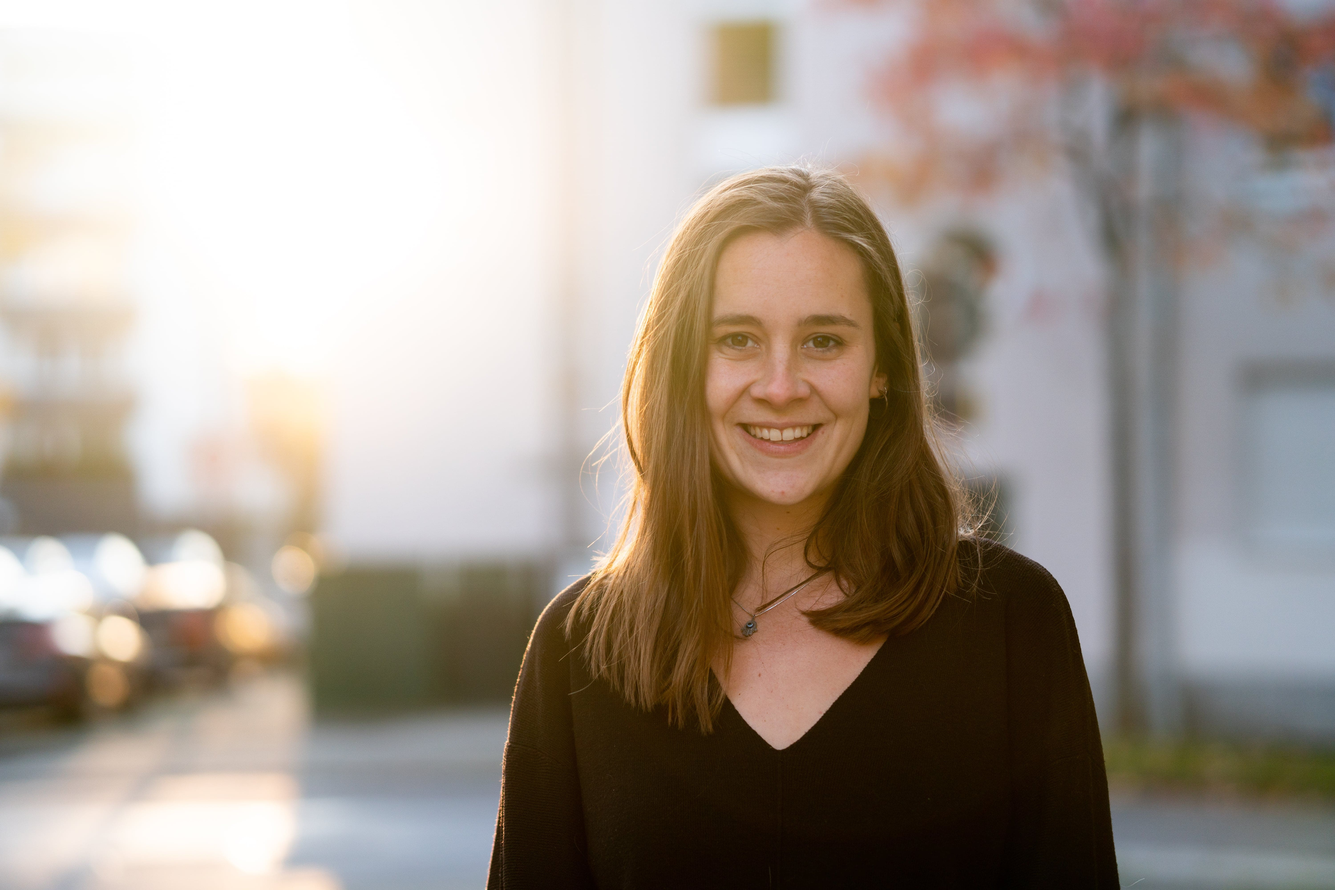
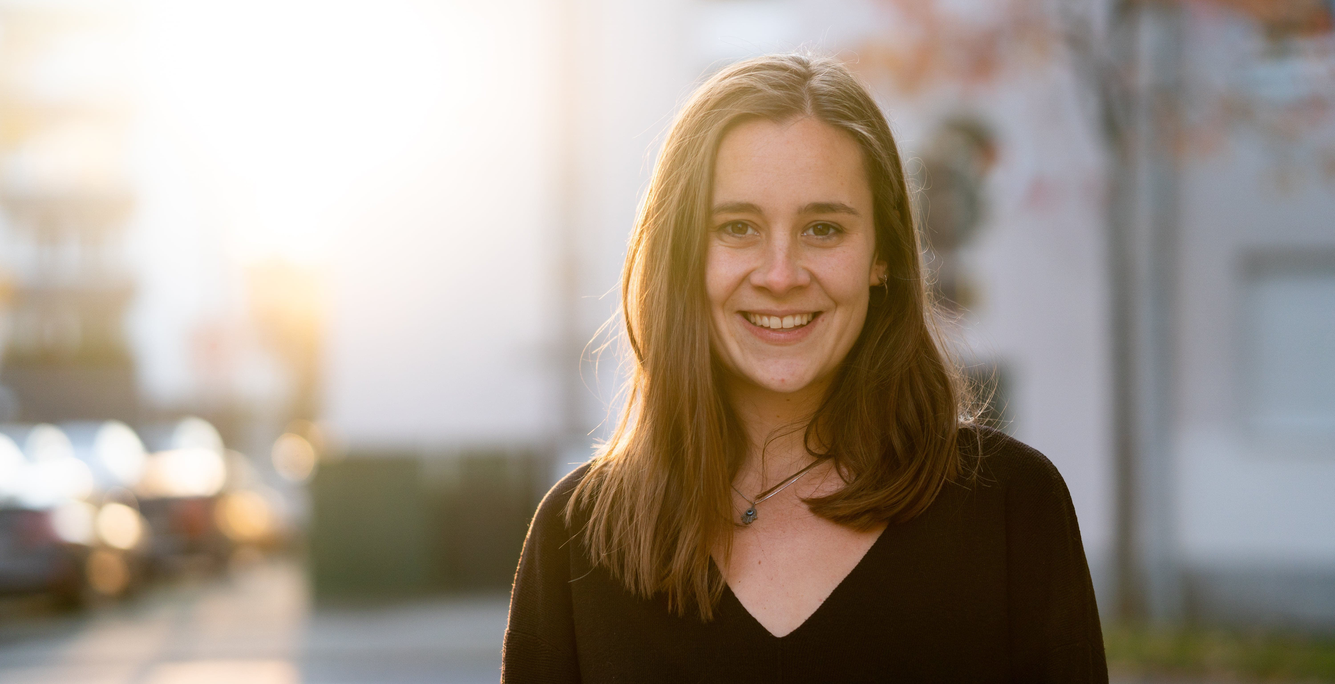
placed all pictures

diff --git a/index.html b/index.html
@@ -9,11 +9,11 @@
 <!-- Navbar (sit on top) -->
 <div class="w3-top">
   <div class="w3-bar w3-white w3-wide w3-padding w3-card">
-    <a href="#home" class="w3-bar-item w3-button"><b>MDEF</b> website</a>
+    <a href="#home" class="w3-bar-item w3-button"><b>GERDA</b> meleschkin</a>
     <!-- Float links to the right. Hide them on small screens -->
     <div class="w3-right w3-hide-small">
-      <a href="#work" class="w3-bar-item w3-button">work</a>
-      <a href="#about" class="w3-bar-item w3-button">about</a>
+      <a href="#work" class="w3-bar-item w3-button">about</a>
+      <a href="#about" class="w3-bar-item w3-button">progress</a>
       <a href="#contact" class="w3-bar-item w3-button">contact</a>
     </div>
   </div>
@@ -21,9 +21,9 @@
 
 <!-- Header -->
 <header class="w3-display-container w3-content w3-wide" style="max-width:1500px;" id="home">
-  <img class="w3-image" src="images/gerda-profilbild.jpg" alt="Architecture" width="1500" height="800">
+  <img class="w3-image" src="images/gerda-profilbild.jpg" alt="Architecture" width="1500" height="900">
   <div class="w3-display-middle w3-margin-top w3-center">
-    <h1 class="w3-xxlarge w3-text-white"><span class="w3-padding w3-black w3-opacity-min"><b>GERDA</b></span> <span class="w3-hide-small w3-text-light-grey">meleschkin</span></h1>
+    <h1 class="w3-xxlarge w3-text-white"><span class="w3-hide-small w3-text-light-grey">everbody is part of this planet</span></h1>
   </div>
 </header>
 
@@ -32,89 +32,103 @@
 
   <!-- Project Section -->
   <div class="w3-container w3-padding-32" id="work">
-    <h3 class="w3-border-bottom w3-border-light-grey w3-padding-16">WORK</h3>
+    <p>I am Gerda Meleschkin, a motivated and enthusiastic industrial product designer and I am looking forward to new challenges and projects.
+    </p>
+    <h3 class="w3-border-bottom w3-border-light-grey w3-padding-16">ABOUT</h3>
   </div>
 
   <div class="w3-row-padding">
     <div class="w3-col l3 m6 w3-margin-bottom">
       <div class="w3-display-container">
         <div class="w3-display-topleft w3-black w3-padding">skills/knowledge/attitude</div>
-        <img src="/images/whats-my-fight.jpg" alt="House" style="width:100%">
-      </div>
-    </div>
-    <div class="w3-col l3 m6 w3-margin-bottom">
-      <div class="w3-display-container">
-        <div class="w3-display-topleft w3-black w3-padding">whats my fight</div>
-        <img src="/images/whats-my-fight.jpg" alt="House" style="width:100%">
-      </div>
-    </div>
-    <div class="w3-col l3 m6 w3-margin-bottom">
-      <div class="w3-display-container">
-        <div class="w3-display-topleft w3-black w3-padding">design space</div>
-        <img src="/w3images/house3.jpg" alt="House" style="width:100%">
-      </div>
-    </div>
-    <div class="w3-col l3 m6 w3-margin-bottom">
-      <div class="w3-display-container">
-        <div class="w3-display-topleft w3-black w3-padding">precourse</div>
-        <img src="/w3images/house4.jpg" alt="House" style="width:100%">
-      </div>
-    </div>
-  </div>
-  <div class="w3-row-padding">
-    <div class="w3-col l3 m6 w3-margin-bottom">
-      <div class="w3-display-container">
-        <div class="w3-display-topleft w3-black w3-padding">reflections</div>
-        <img src="/w3images/house2.jpg" alt="House" style="width:99%">
-      </div>
-    </div>
-    <div class="w3-col l3 m6 w3-margin-bottom">
-      <div class="w3-display-container">
-        <div class="w3-display-topleft w3-black w3-padding">open project</div>
-        <img src="/w3images/house5.jpg" alt="House" style="width:99%">
-      </div>
-    </div>
-    <div class="w3-col l3 m6 w3-margin-bottom">
-      <div class="w3-display-container">
-        <div class="w3-display-topleft w3-black w3-padding">open project</div>
-        <img src="/w3images/house4.jpg" alt="House" style="width:99%">
-      </div>
-    </div>
-    <div class="w3-col l3 m6 w3-margin-bottom">
-      <div class="w3-display-container">
-        <div class="w3-display-topleft w3-black w3-padding">open project</div>
-        <img src="/w3images/house3.jpg" alt="House" style="width:99%">
+        <img src="images/attitude-skills-knowledge-weekly.png" alt="House" style="width:200%">
       </div>
     </div>
   </div>
 
   <!-- About Section -->
   <div class="w3-container w3-padding-32" id="about">
-    <h3 class="w3-border-bottom w3-border-light-grey w3-padding-16">ABOUT</h3>
-    <p>I am Gerda Meleschkin, a motivated and enthusiastic industrial product designer and I am looking forward to new challenges and projects.
-    </p>
+    <h3 class="w3-border-bottom w3-border-light-grey w3-padding-16">PROGRESS</h3>
   </div>
 
   <div class="w3-row-padding w3-grayscale">
     <div class="w3-col l3 m6 w3-margin-bottom">
-      <img src="/w3images/team2.jpg" alt="John" style="width:100%">
-      <h3>cv</h3>
-      <p class="w3-opacity">Inputs/Outputs & Fabrication</p>
+      <img src="images/jelly-fish-lamp.png" alt="John" style="width:100%">
+      <h3>Jelly Fish Lamp</h3>
+      <p class="w3-opacity">Precourse</p>
       <p>Phasellus eget enim eu lectus faucibus vestibulum. Suspendisse sodales pellentesque elementum.</p>
       <p><button class="w3-button w3-light-grey w3-block">download</button></p>
     </div>
     <div class="w3-col l3 m6 w3-margin-bottom">
-      <img src="/w3images/team1.jpg" alt="Jane" style="width:100%">
-      <h3>inspirations</h3>
-      <p class="w3-opacity">Reflektion</p>
+      <img src="images/whats-my-fight.jpg" alt="John" style="width:100%">
+      <h3>whats my fight</h3>
+      <p class="w3-opacity">Bootcamp</p>
+      <p>Connection and community, that´s my fight. This pictures shows on the one hand the mother earth with plants and animals and on the other hand the human life. I think it’s really important that we don’t lose the connection between the nature and ourselves. We are all together on the same planet and now see what problems we get when we act separately. Global warming, air pollution and world hunger for example are problems which comes from not connecting which each other. The world is full of products and trash caused from humans. I think it’s important now to think more about what we have, what we really need and what we can recycle. Acting more together instead of separately.</p>
+      <p><button class="w3-button w3-light-grey w3-block">download</button></p>
+    </div>
+    <div class="w3-col l3 m6 w3-margin-bottom">
+      <img src="images/design-space.png" alt="Jane" style="width:100%">
+      <h3>design space</h3>
+      <p class="w3-opacity">Atlas&Weak Signlas</p>
       <p>Phasellus eget enim eu lectus faucibus vestibulum. Suspendisse sodales pellentesque elementum.</p>
       <p><button class="w3-button w3-light-grey w3-block">no use?</button></p>
     </div>
+    <div class="w3-row-padding w3-grayscale">
+      <div class="w3-col l3 m6 w3-margin-bottom">
+        <img src="images/platzhalter.png" alt="John" style="width:100%">
+        <h3>open topic</h3>
+        <p class="w3-opacity">Bio&Agri Zero</p>
+        <p>Phasellus eget enim eu lectus faucibus vestibulum. Suspendisse sodales pellentesque elementum.</p>
+        <p><button class="w3-button w3-light-grey w3-block">download</button></p>
+      </div>
+      <div class="w3-col l3 m6 w3-margin-bottom">
+        <img src="images/platzhalter.png" alt="John" style="width:100%">
+        <h3>open topic</h3>
+        <p class="w3-opacity">Living with your own ideas</p>
+        <p>Phasellus eget enim eu lectus faucibus vestibulum. Suspendisse sodales pellentesque elementum.</p>
+        <p><button class="w3-button w3-light-grey w3-block">download</button></p>
+      </div>
+      <div class="w3-col l3 m6 w3-margin-bottom">
+        <img src="images/platzhalter.png" alt="Jane" style="width:100%">
+        <h3>open topic</h3>
+        <p class="w3-opacity">Tech Beyond the Midth</p>
+        <p>Phasellus eget enim eu lectus faucibus vestibulum. Suspendisse sodales pellentesque elementum.</p>
+        <p><button class="w3-button w3-light-grey w3-block">no use?</button></p>
+      </div>
+      <div class="w3-row-padding w3-grayscale">
+        <div class="w3-col l3 m6 w3-margin-bottom">
+          <img src="images/platzhalter.png" alt="John" style="width:100%">
+          <h3>open topic</h3>
+          <p class="w3-opacity">Community Engagement</p>
+          <p>Phasellus eget enim eu lectus faucibus vestibulum. Suspendisse sodales pellentesque elementum.</p>
+          <p><button class="w3-button w3-light-grey w3-block">download</button></p>
+        </div>
+        <div class="w3-col l3 m6 w3-margin-bottom">
+          <img src="images/platzhalter.png" alt="John" style="width:100%">
+          <h3>open topic</h3>
+          <p class="w3-opacity">Extended intelligences</p>
+          <p>Phasellus eget enim eu lectus faucibus vestibulum. Suspendisse sodales pellentesque elementum.</p>
+          <p><button class="w3-button w3-light-grey w3-block">download</button></p>
+        </div>
+        <div class="w3-col l3 m6 w3-margin-bottom">
+          <img src="images/platzhalter.png" alt="Jane" style="width:100%">
+          <h3>open topic</h3>
+          <p class="w3-opacity">Designing for the next</p>
+          <p>Phasellus eget enim eu lectus faucibus vestibulum. Suspendisse sodales pellentesque elementum.</p>
+          <p><button class="w3-button w3-light-grey w3-block">no use?</button></p>
+        </div>
+        <div class="w3-col l3 m6 w3-margin-bottom">
+          <img src="images/platzhalter.png" alt="Jane" style="width:100%">
+          <h3>open topic</h3>
+          <p class="w3-opacity">Design Studio 1</p>
+          <p>Phasellus eget enim eu lectus faucibus vestibulum. Suspendisse sodales pellentesque elementum.</p>
+          <p><button class="w3-button w3-light-grey w3-block">no use?</button></p>
+        </div>
   </div>
 
   <!-- Contact Section -->
   <div class="w3-container w3-padding-32" id="contact">
-    <h3 class="w3-border-bottom w3-border-light-grey w3-padding-16">Contact</h3>
+    <h3 class="w3-border-bottom w3-border-light-grey w3-padding-16">CONTACT</h3>
     <p>Lets get in touch and talk about your next project.</p>
     <form action="/action_page.php" target="_blank">
       <input class="w3-input w3-border" type="text" placeholder="Name" required name="Name">
@@ -129,7 +143,7 @@
 
 <!-- Image of location/map -->
 <div class="w3-container">
-  <img src="/w3images/map.jpg" class="w3-image" style="width:100%">
+  <img src="images/forest.png" class="w3-image" style="width:100%">
 </div>
 
 <!-- End page content -->
